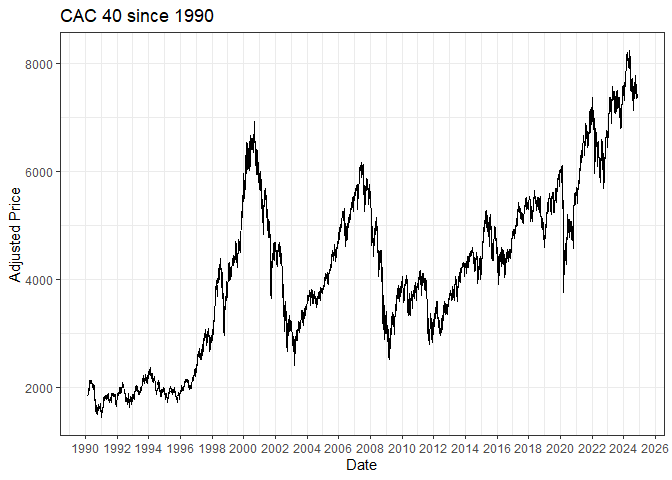
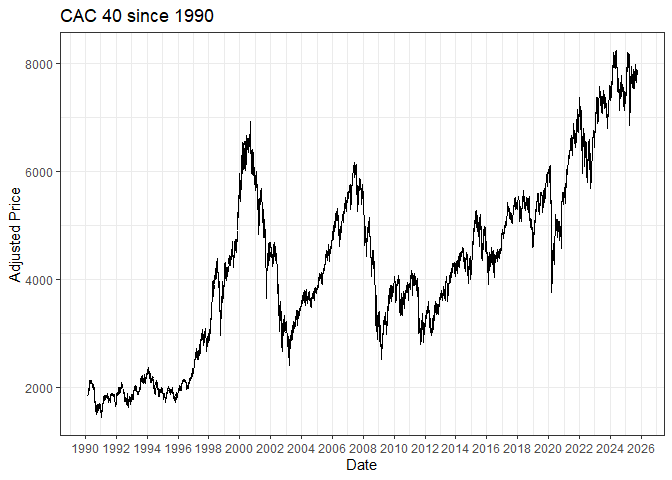
init

Changed region(s): [[0.1562, 0.0938, 0.9688, 0.8438], [0.1562, 0.9062, 1.0, 0.9688]]

diff --git a/to-begin.md b/to-begin.md
@@ -1,8 +1,8 @@
-Equity portfolio construction and efficient diversification with climate
-risks
+Equity portfolio construction and efficient diversification with
+geopolitical risks
 ================
 Pierre Clauss
-November 2024
+2025-2026
 
 ## Foreword
 
@@ -48,12 +48,12 @@ library(tidyquant)
 (cac <- tq_get(
   "^FCHI",
   from = '1990-03-01',
-  to = "2024-11-30",
+  to = "2025-09-30",
   get = "stock.prices"
 ))
 ```
 
-    ## # A tibble: 8,957 × 8
+    ## # A tibble: 9,183 × 8
     ##    symbol date        open  high   low close volume adjusted
     ##    <chr>  <date>     <dbl> <dbl> <dbl> <dbl>  <dbl>    <dbl>
     ##  1 ^FCHI  1990-03-01  1836  1838  1827  1832      0     1832
@@ -66,21 +66,21 @@ library(tidyquant)
     ##  8 ^FCHI  1990-03-12  1917  1918  1912  1912      0     1912
     ##  9 ^FCHI  1990-03-13  1924  1924  1924  1924      0     1924
     ## 10 ^FCHI  1990-03-14  1919  1946  1919  1946      0     1946
-    ## # ℹ 8,947 more rows
+    ## # ℹ 9,173 more rows
 
 ``` r
 tail(cac)
 ```
 
     ## # A tibble: 6 × 8
-    ##   symbol date        open  high   low close    volume adjusted
-    ##   <chr>  <date>     <dbl> <dbl> <dbl> <dbl>     <dbl>    <dbl>
-    ## 1 ^FCHI  2024-10-31 7384. 7393. 7316. 7350. 103047400    7350.
-    ## 2 ^FCHI  2024-11-01 7364. 7434. 7358. 7409.  56971200    7409.
-    ## 3 ^FCHI  2024-11-04 7386. 7446. 7372. 7372.  45718400    7372.
-    ## 4 ^FCHI  2024-11-05 7378. 7415. 7350  7407.  47126000    7407.
-    ## 5 ^FCHI  2024-11-06 7444. 7572. 7338. 7370. 108204000    7370.
-    ## 6 ^FCHI  2024-11-07 7373. 7450  7354. 7426.         0    7426.
+    ##   symbol date        open  high   low close   volume adjusted
+    ##   <chr>  <date>     <dbl> <dbl> <dbl> <dbl>    <dbl>    <dbl>
+    ## 1 ^FCHI  2025-09-22 7848. 7850. 7801. 7830. 42599900    7830.
+    ## 2 ^FCHI  2025-09-23 7868. 7919. 7857. 7872. 48991400    7872.
+    ## 3 ^FCHI  2025-09-24 7871. 7873. 7810. 7827. 52936900    7827.
+    ## 4 ^FCHI  2025-09-25 7798. 7820. 7760. 7795. 51878400    7795.
+    ## 5 ^FCHI  2025-09-26 7822. 7875. 7821. 7871. 52920700    7871.
+    ## 6 ^FCHI  2025-09-29 7899. 7901. 7870. 7881. 46221000    7881.
 
 ``` r
 # plot
@@ -95,23 +95,12 @@ cac %>%
 
 ![](to-begin_files/figure-gfm/import-1.png)<!-- -->
 
-I will use also economic views to adapt my allocation based on ESG
-ratings. I could assume that the future performance of stocks could be
-influenced by their ESG ratings: a good ESG rating will lead to good
-performance, and a bad one will lead to poor performance. This
-assumption could be challenged: see the academic paper by Pastor,
-Stambaugh, and Taylor [“Dissecting green
-returns”](https://www.nber.org/system/files/working_papers/w28940/w28940.pdf),
-where they show that green stocks do not guarantee outperformance
-compared to brown stocks.
-
-I use [Sustainalytics’ ESG risk
-assessment](https://www.sustainalytics.com/esg-data) to obtain ESG
-ratings. These ratings measure the risk to which a company’s value is
-exposed due to environmental, social and governance issues. They assess
-the risk on an absolute scale from 0 to 100. The lowest score indicates
-that ESG risk is the best managed. They are available since 2014 and
-published on Yahoo Finance since 2018.
+I will also use economic views to adapt my allocation based on
+geopolitical risks. I could assume that the future performance of
+equities could be influenced by some price indexes as stock markets,
+sectors, commodities (energy, gold) or VIX, and also by [Geopolitical
+Risk (GPR) Index of Caldara &
+Iacoviello](https://www.matteoiacoviello.com/gpr.htm).
 
 ## 2 Data wrangling
 
@@ -139,12 +128,12 @@ tail(cac_monthly_returns)
     ## # A tibble: 6 × 2
     ##   date       cac.returns
     ##   <date>           <dbl>
-    ## 1 2024-06-28   -0.0642  
-    ## 2 2024-07-31    0.00696 
-    ## 3 2024-08-30    0.0132  
-    ## 4 2024-09-30    0.000629
-    ## 5 2024-10-31   -0.0374  
-    ## 6 2024-11-07    0.0102
+    ## 1 2025-04-30    -0.0253 
+    ## 2 2025-05-30     0.0208 
+    ## 3 2025-06-30    -0.0111 
+    ## 4 2025-07-31     0.0138 
+    ## 5 2025-08-29    -0.00876
+    ## 6 2025-09-29     0.0230
 
 We can see below, thanks to the package **DataExplorer**, a summary of
 the tidy observed data.
@@ -172,11 +161,11 @@ summary(cac_monthly_returns)
 
     ##       date             cac.returns       
     ##  Min.   :1990-03-30   Min.   :-0.174903  
-    ##  1st Qu.:1998-11-30   1st Qu.:-0.028793  
-    ##  Median :2007-07-31   Median : 0.009409  
-    ##  Mean   :2007-07-30   Mean   : 0.004769  
-    ##  3rd Qu.:2016-03-31   3rd Qu.: 0.037759  
-    ##  Max.   :2024-11-07   Max.   : 0.201189
+    ##  1st Qu.:1999-02-12   1st Qu.:-0.028071  
+    ##  Median :2007-12-31   Median : 0.009409  
+    ##  Mean   :2007-12-30   Mean   : 0.004809  
+    ##  3rd Qu.:2016-11-15   3rd Qu.: 0.037427  
+    ##  Max.   :2025-09-29   Max.   : 0.201189
 
 I can go deeper thanks to distribution graphics: the non-parametric
 (kernel method) estimation of the distribution and QQ-plots.

diff --git a/README.md b/README.md
@@ -1,5 +1,5 @@
-# Equity portfolio construction and efficient diversification with climate risks
+# Equity portfolio construction and efficient diversification with geopolitical risks
 
-With the help of quantitative methodologies (bayesian, factor models for instance), the objective of this project is to improve diversification of equity portfolios in high volatility conditions with emerging climate risks (transition and physical risks).
+With the help of quantitative methodologies (bayesian, factor models for instance), the objective of this project is to improve diversification of equity portfolios in high volatility conditions with geopolitical risks.
 
-Data will be based on stock prices and ESG ratings (open source), and the use of R and __tidyverse__ & __tidyquant__ universe will be encouraged.
+Data will be based on stock prices or indexes prices (open source), and the use of R and __tidyverse__ & __tidyquant__ universe will be encouraged.
